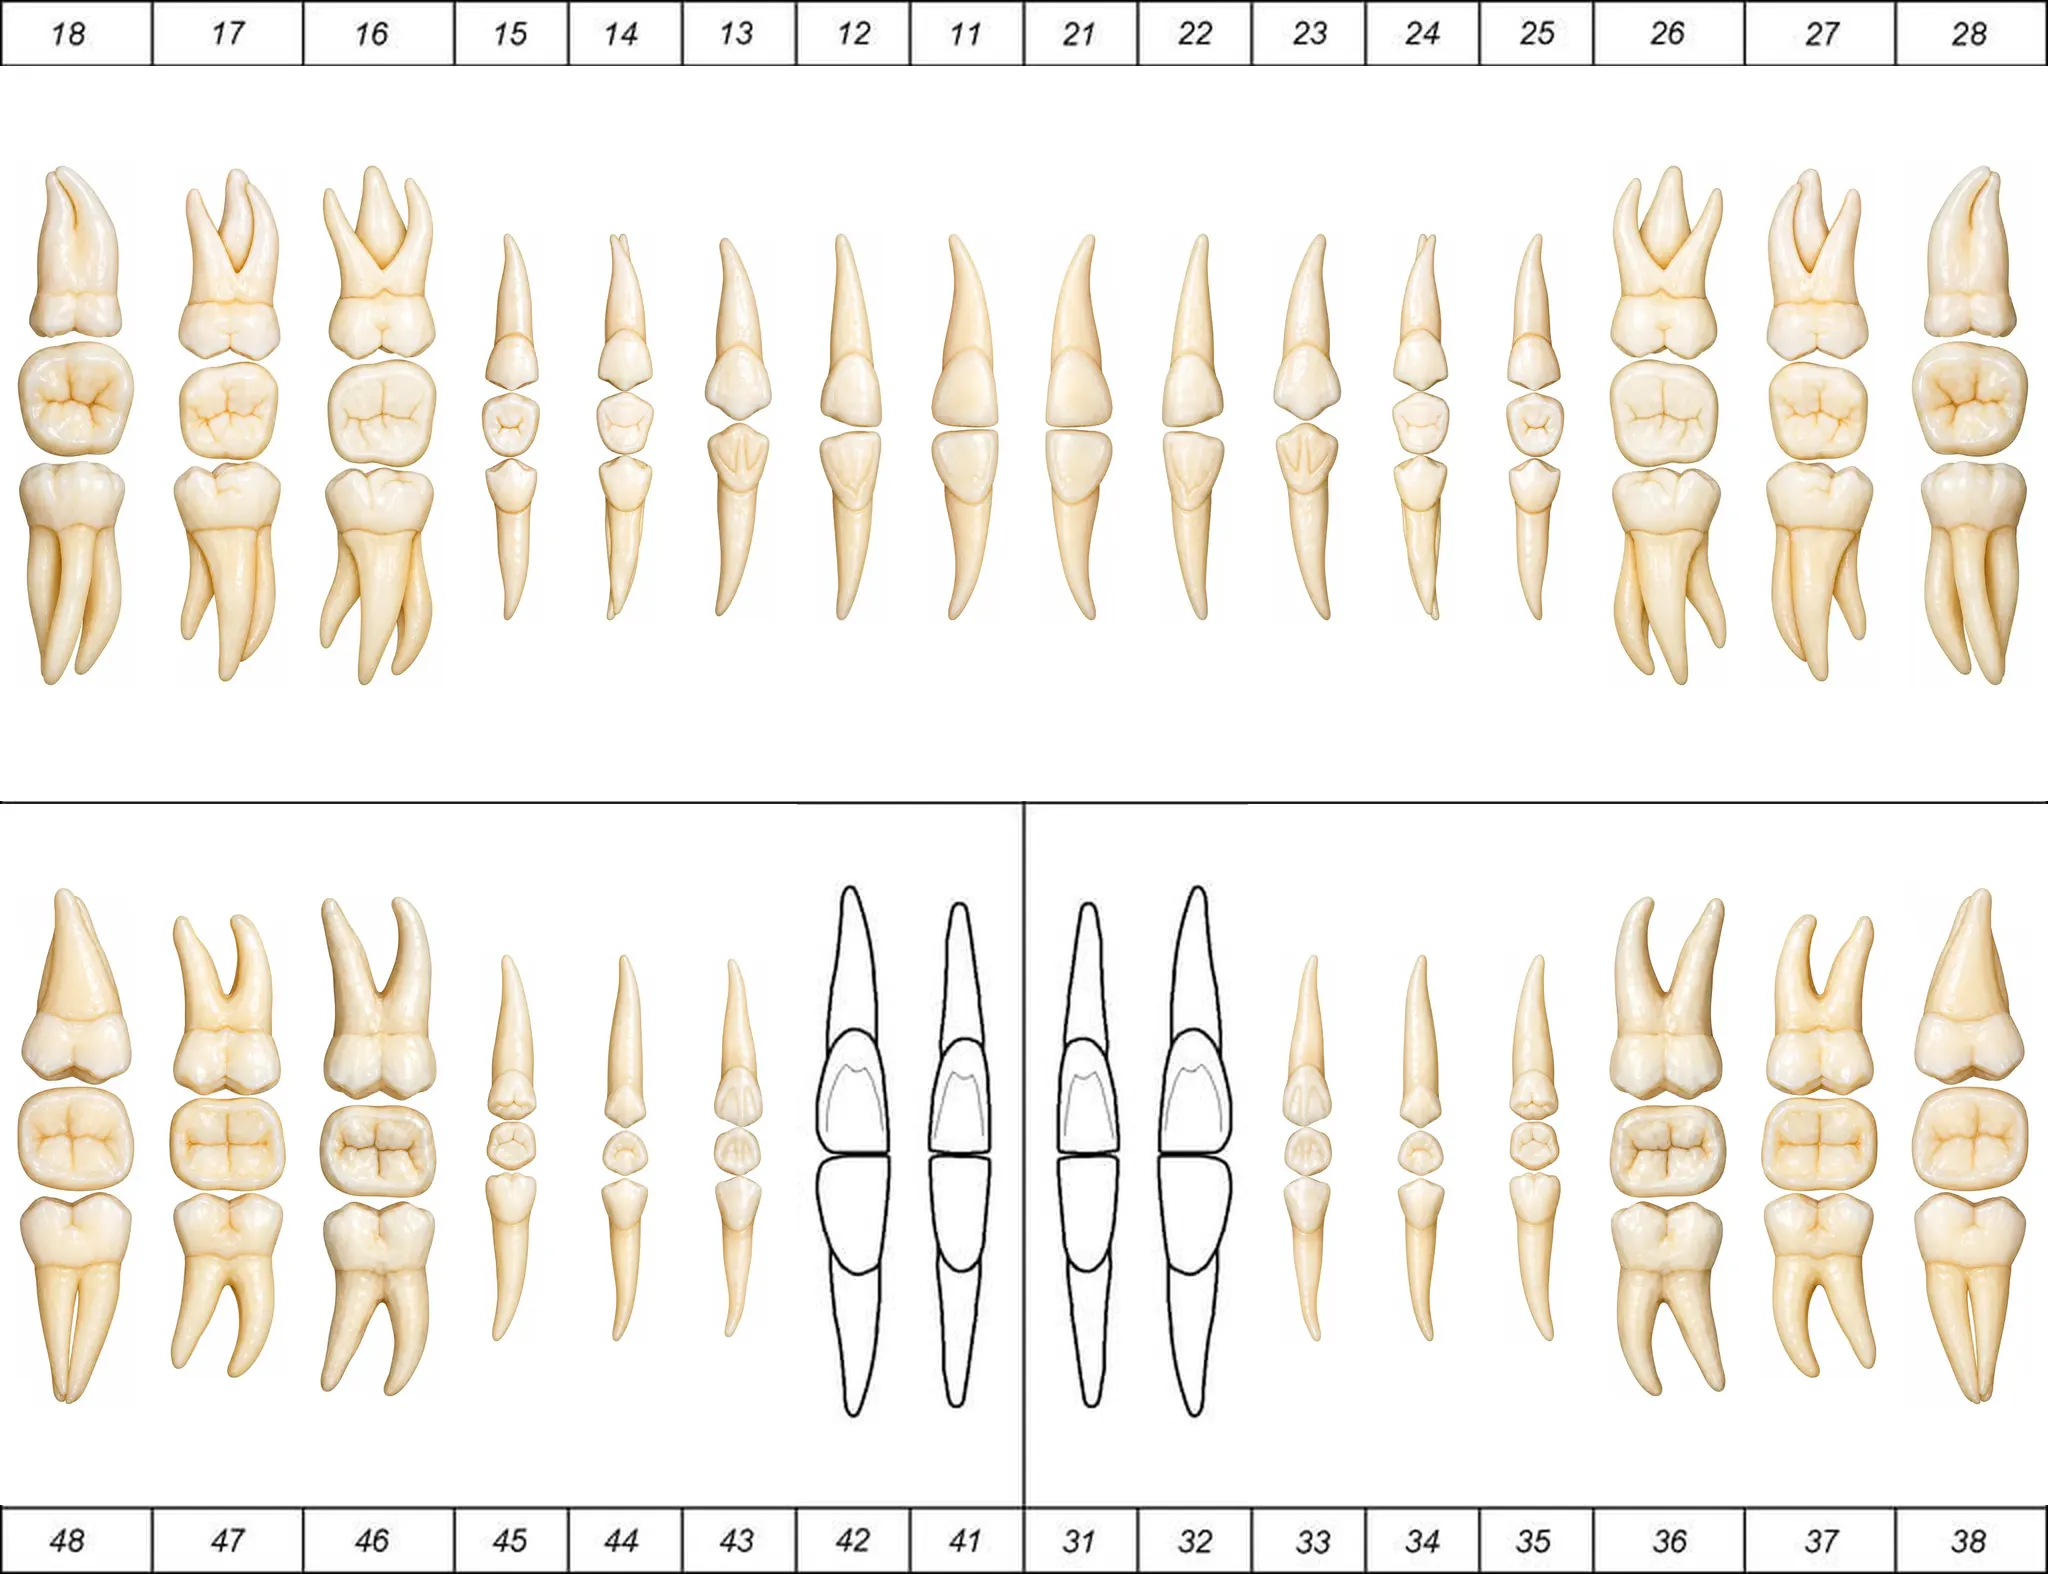
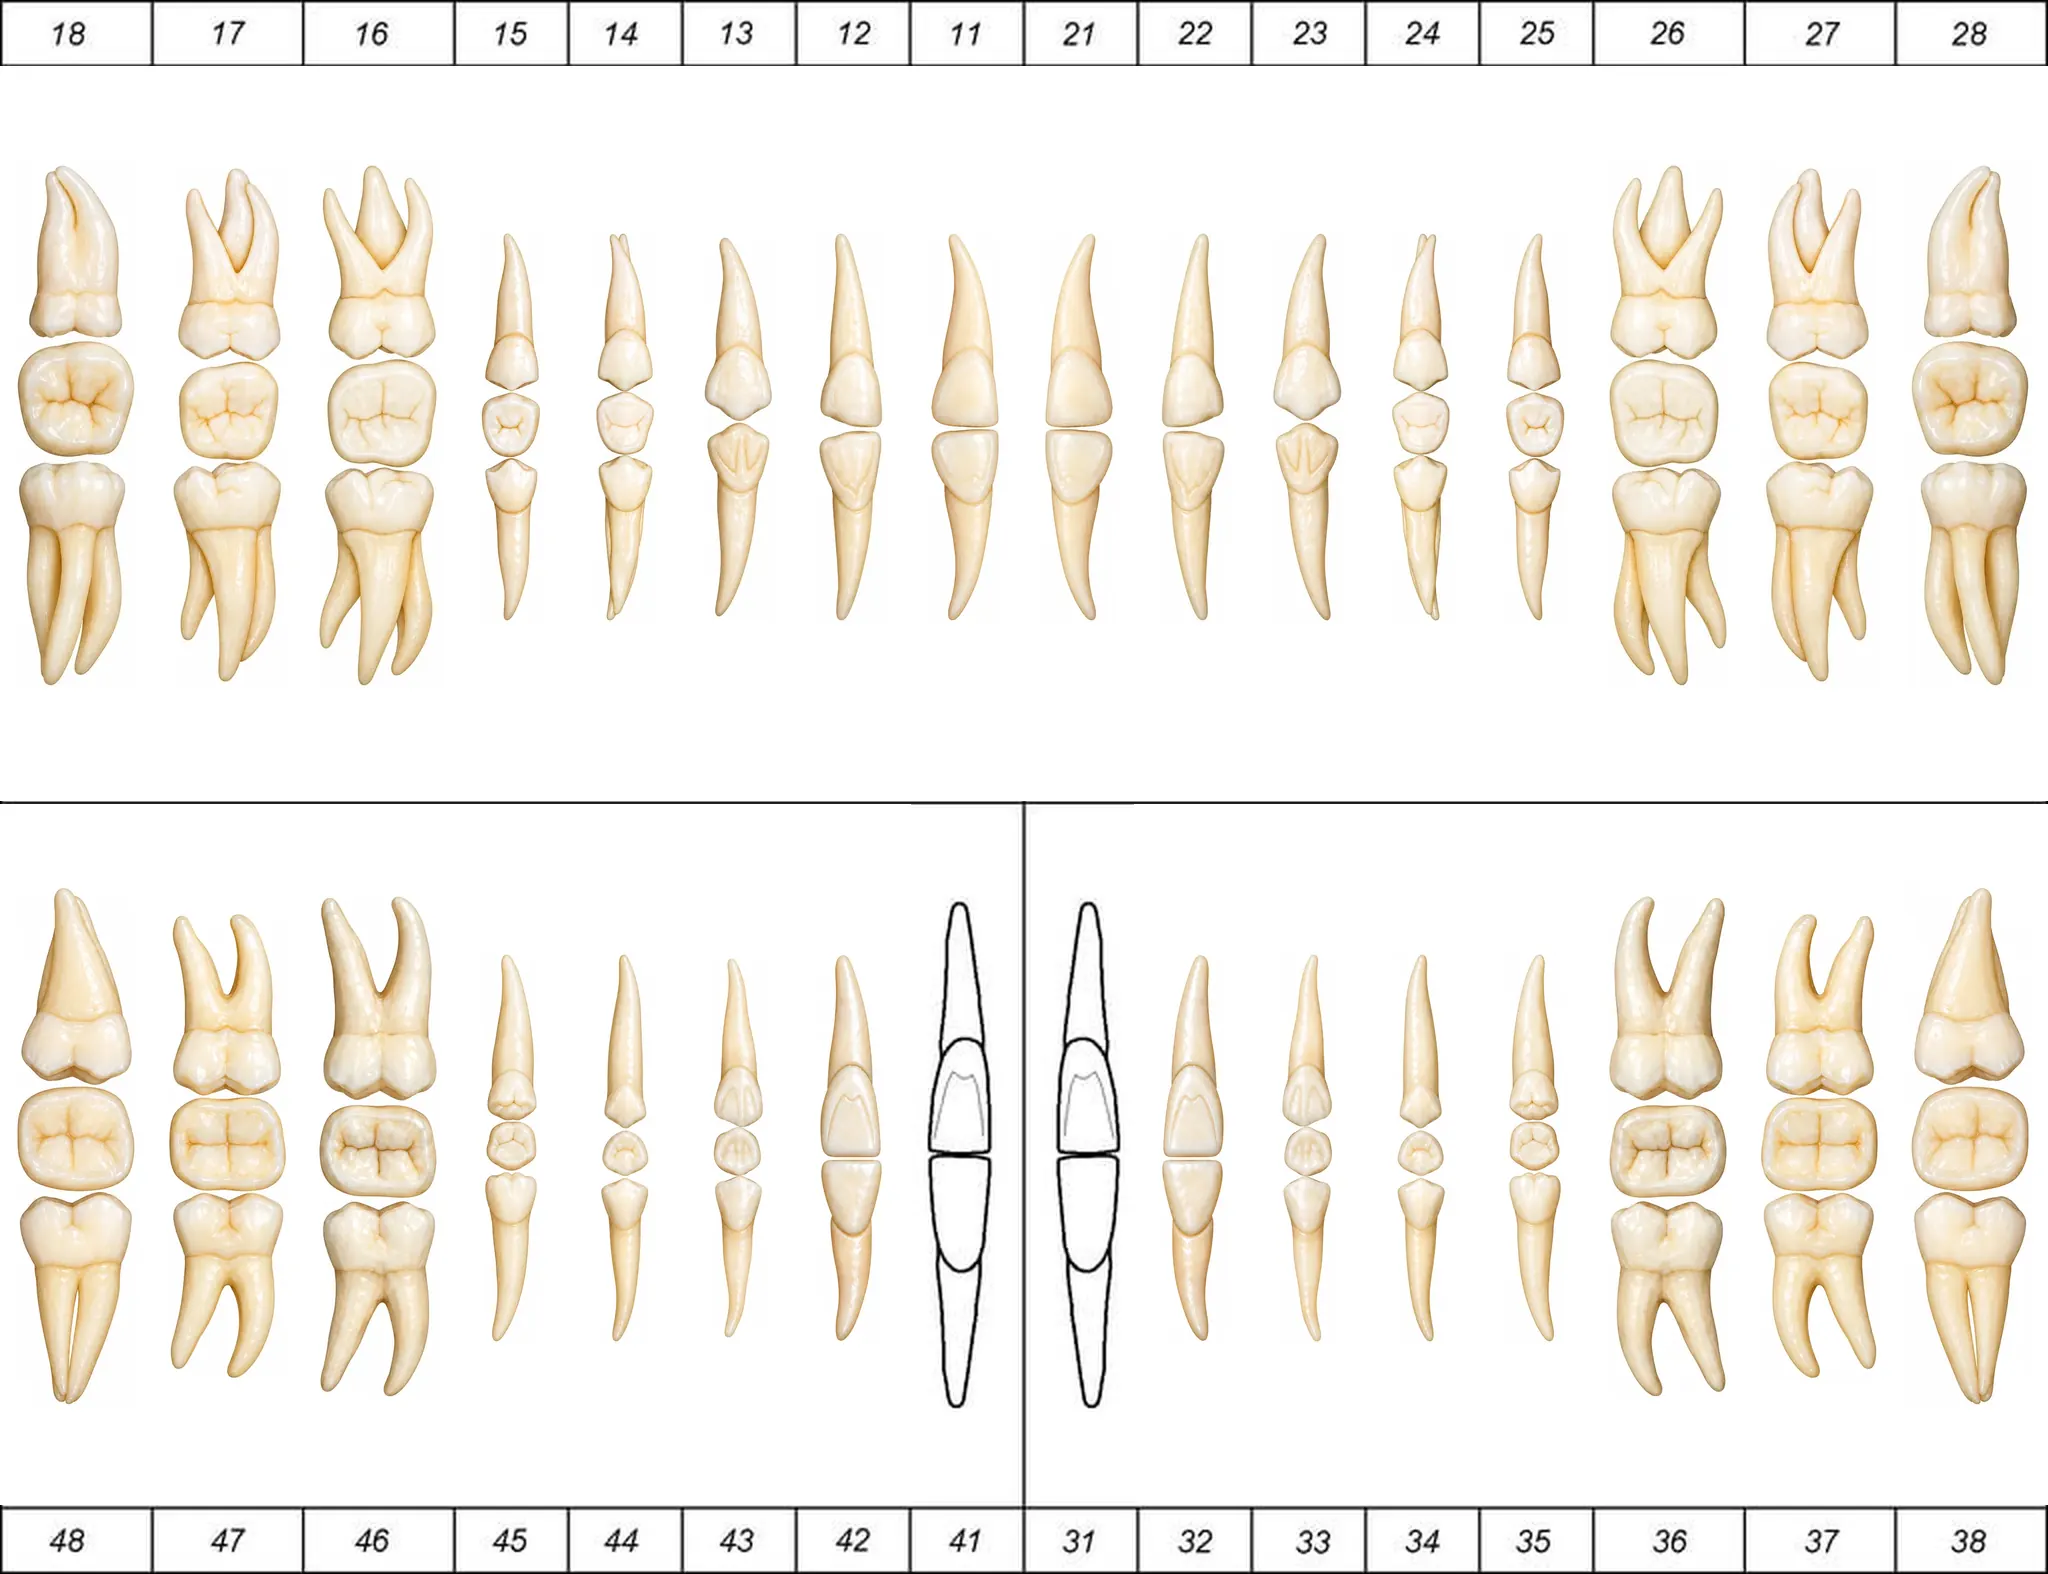
Odontograma: dientes 42 y 32 realistas
Claude-Session: https://claude.ai/code/session_01FW31h1zo6p8vQyvT2eeDKx

Changed region(s): [[0.375, 0.5604, 0.4375, 0.9028], [0.5625, 0.5604, 0.625, 0.9028]]

diff --git a/components/OdontogramaDibujo.tsx b/components/OdontogramaDibujo.tsx
@@ -54,7 +54,7 @@ const CARTA_URL = `/odontograma-carta-v2.webp?v=${ODONTOGRAMA_VERSION}`;
 
 // Dientes con ilustración realista propia (public/dientes/N.webp) que
 // sustituye al dibujo de línea de la carta en su columna.
-const DIENTES_REALISTAS = new Set<number>([18, 17, 16, 15, 14, 13, 12, 11, 21, 22, 23, 24, 25, 26, 27, 28, 48, 38, 47, 37, 46, 36, 45, 35, 44, 34, 43, 33]);
+const DIENTES_REALISTAS = new Set<number>([18, 17, 16, 15, 14, 13, 12, 11, 21, 22, 23, 24, 25, 26, 27, 28, 48, 38, 47, 37, 46, 36, 45, 35, 44, 34, 43, 33, 42, 32]);
 
 // Lienzo propio de un diente realista en pantalla completa: las marcas
 // de ese diente se guardan en estas coordenadas (con d = número) y en

diff --git a/lib/odontograma-version.ts b/lib/odontograma-version.ts
@@ -1,2 +1,2 @@
 // Generado por scripts/componer-carta.py — no editar a mano.
-export const ODONTOGRAMA_VERSION = "f3e579dcd6";
+export const ODONTOGRAMA_VERSION = "de9d2fcdad";
